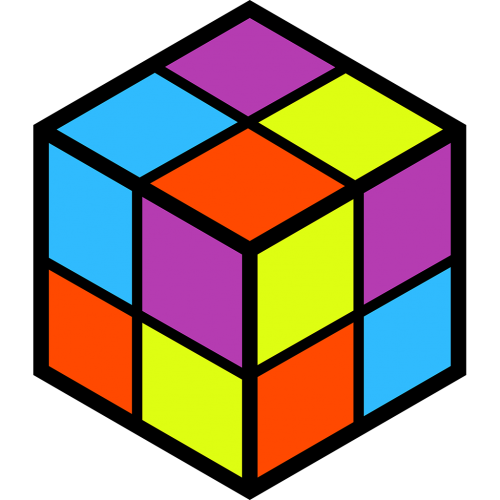
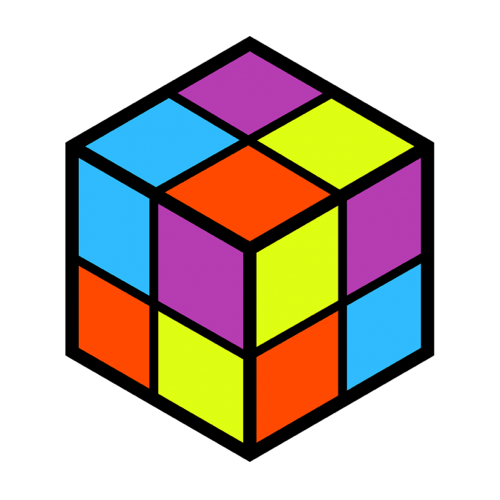
fix scanning with lb

diff --git a/frontend/src/views/Scan.vue b/frontend/src/views/Scan.vue
@@ -48,6 +48,12 @@ const metadataOptions = computed(() => [
     logo_path: "/assets/scrappers/ra.png",
     disabled: !heartbeat.value.METADATA_SOURCES?.RA_ENABLED,
   },
+  {
+    name: "Launchbox",
+    value: "lb",
+    logo_path: "/assets/scrappers/launchbox.png",
+    disabled: !heartbeat.value.METADATA_SOURCES?.LAUNCHBOX_ENABLED,
+  },
 ]);
 // Use the computed metadataOptions to filter out disabled sources
 const metadataSources = ref(metadataOptions.value.filter((s) => !s.disabled));

diff --git a/frontend/src/components/Details/Title.vue b/frontend/src/components/Details/Title.vue
@@ -167,7 +167,9 @@ const hasReleaseDate = Number(props.rom.metadatum.first_release_date) > 0;
             </v-avatar>
             <span>{{ rom.launchbox_id }}</span>
             <v-divider class="mx-2 border-opacity-25" vertical />
-            <span>{{ rom.launchbox_metadata?.community_rating }}</span>
+            <span>{{
+              rom.launchbox_metadata?.community_rating?.toFixed(2)
+            }}</span>
             <v-icon class="ml-1">mdi-star</v-icon>
           </v-chip>
         </div>

diff --git a/backend/handler/metadata/launchbox_handler.py b/backend/handler/metadata/launchbox_handler.py
@@ -1,9 +1,9 @@
 import json
 from typing import Final, NotRequired, TypedDict
 
+from config import str_to_bool
 from handler.redis_handler import async_cache
 from tasks.update_launchbox_metadata import (  # LAUNCHBOX_PLATFORMS_KEY,; LAUNCHBOX_METADATA_IMAGE_KEY,; LAUNCHBOX_MAME_KEY,; update_launchbox_metadata_task,
-    LAUNCHBOX_FILES_KEY,
     LAUNCHBOX_METADATA_DATABASE_ID_KEY,
     LAUNCHBOX_METADATA_NAME_KEY,
 )
@@ -46,30 +46,25 @@ def extract_metadata_from_launchbox_rom(index_entry: dict) -> LaunchboxMetadata:
     return LaunchboxMetadata(
         {
             "release_date": index_entry.get("ReleaseDate", ""),
-            "max_players": index_entry.get("MaxPlayers", 0),
+            "max_players": int(index_entry.get("MaxPlayers") or 0),
             "release_type": index_entry.get("ReleaseType", ""),
-            "cooperative": index_entry.get("Cooperative", False),
-            "video_url": index_entry.get("VideoURL", ""),
-            "community_rating": index_entry.get("CommunityRating", 0),
-            "community_rating_count": index_entry.get("CommunityRatingCount", 0),
+            "cooperative": str_to_bool(index_entry.get("Cooperative") or "false"),
+            "video_url": index_entry.get("VideoURL") or "",
+            "community_rating": float(index_entry.get("CommunityRating") or 0.0),
+            "community_rating_count": int(index_entry.get("CommunityRatingCount") or 0),
             "wikipedia_url": index_entry.get("WikipediaURL", ""),
             "esrb": index_entry.get("ESRB", ""),
-            "genres": index_entry.get("Genres", []),
-            "developer": index_entry.get("Developer", ""),
-            "publisher": index_entry.get("Publisher", ""),
+            "genres": index_entry.get("Genres", []).split(),
+            "developer": index_entry.get("Developer") or "",
+            "publisher": index_entry.get("Publisher") or "",
         }
     )
 
 
 class LaunchboxHandler(MetadataHandler):
     async def _search_rom(self, file_name: str) -> dict | None:
-        file_index_entry = await async_cache.hget(LAUNCHBOX_FILES_KEY, file_name)
-        if not file_index_entry:
-            return None
-
-        file_index_entry = json.loads(file_index_entry)
         metadata_name_index_entry = await async_cache.hget(
-            LAUNCHBOX_METADATA_NAME_KEY, file_index_entry["name"]
+            LAUNCHBOX_METADATA_NAME_KEY, file_name
         )
 
         if not metadata_name_index_entry:
@@ -94,7 +89,7 @@ class LaunchboxHandler(MetadataHandler):
         if not LAUNCHBOX_API_ENABLED:
             return LaunchboxRom(launchbox_id=None)
 
-        search_term = fs_rom_handler.get_file_name_with_no_extension(fs_name)
+        search_term = fs_rom_handler.get_file_name_with_no_tags(fs_name)
         fallback_rom = LaunchboxRom(launchbox_id=None)
 
         index_entry = await self._search_rom(search_term)

diff --git a/backend/endpoints/platform.py b/backend/endpoints/platform.py
@@ -90,6 +90,8 @@ def get_supported_platforms(request: Request) -> list[PlatformSchema]:
             "created_at": now,
             "updated_at": now,
             "fs_size_bytes": 0,
+            "is_unidentified": False,
+            "is_identified": True,
         }
 
         if platform["name"] in db_platforms_map:

diff --git a/backend/handler/scan_handler.py b/backend/handler/scan_handler.py
@@ -369,7 +369,7 @@ async def scan_rom(
         return SSRom(ss_id=None)
 
     async def fetch_launchbox_rom():
-        if MetadataSource.IGDB in metadata_sources and (
+        if MetadataSource.LB in metadata_sources and (
             not rom
             or scan_type == ScanType.COMPLETE
             or (scan_type == ScanType.PARTIAL and not rom.launchbox_id)